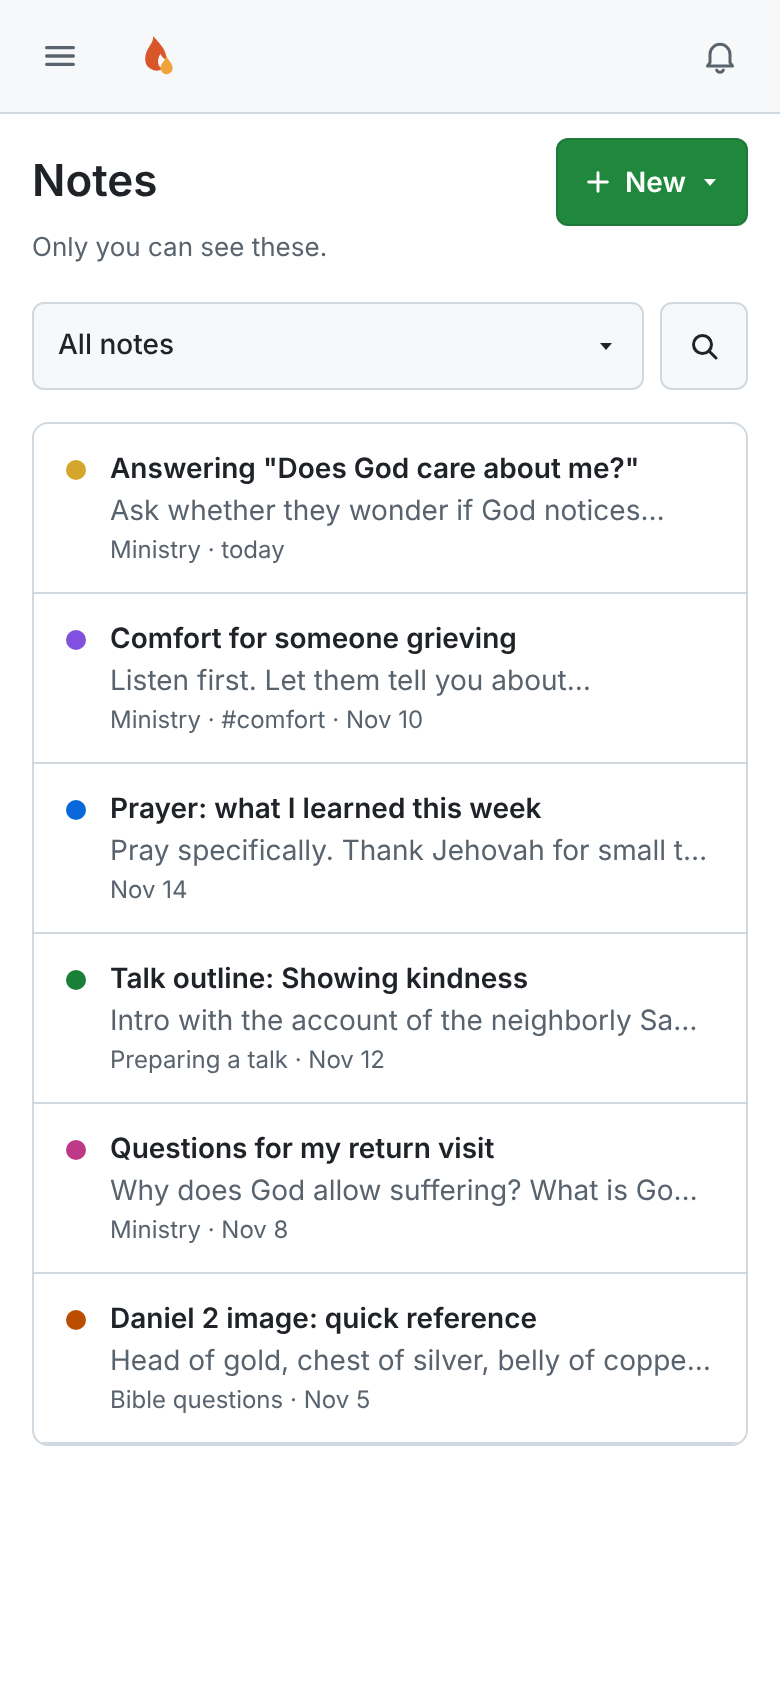
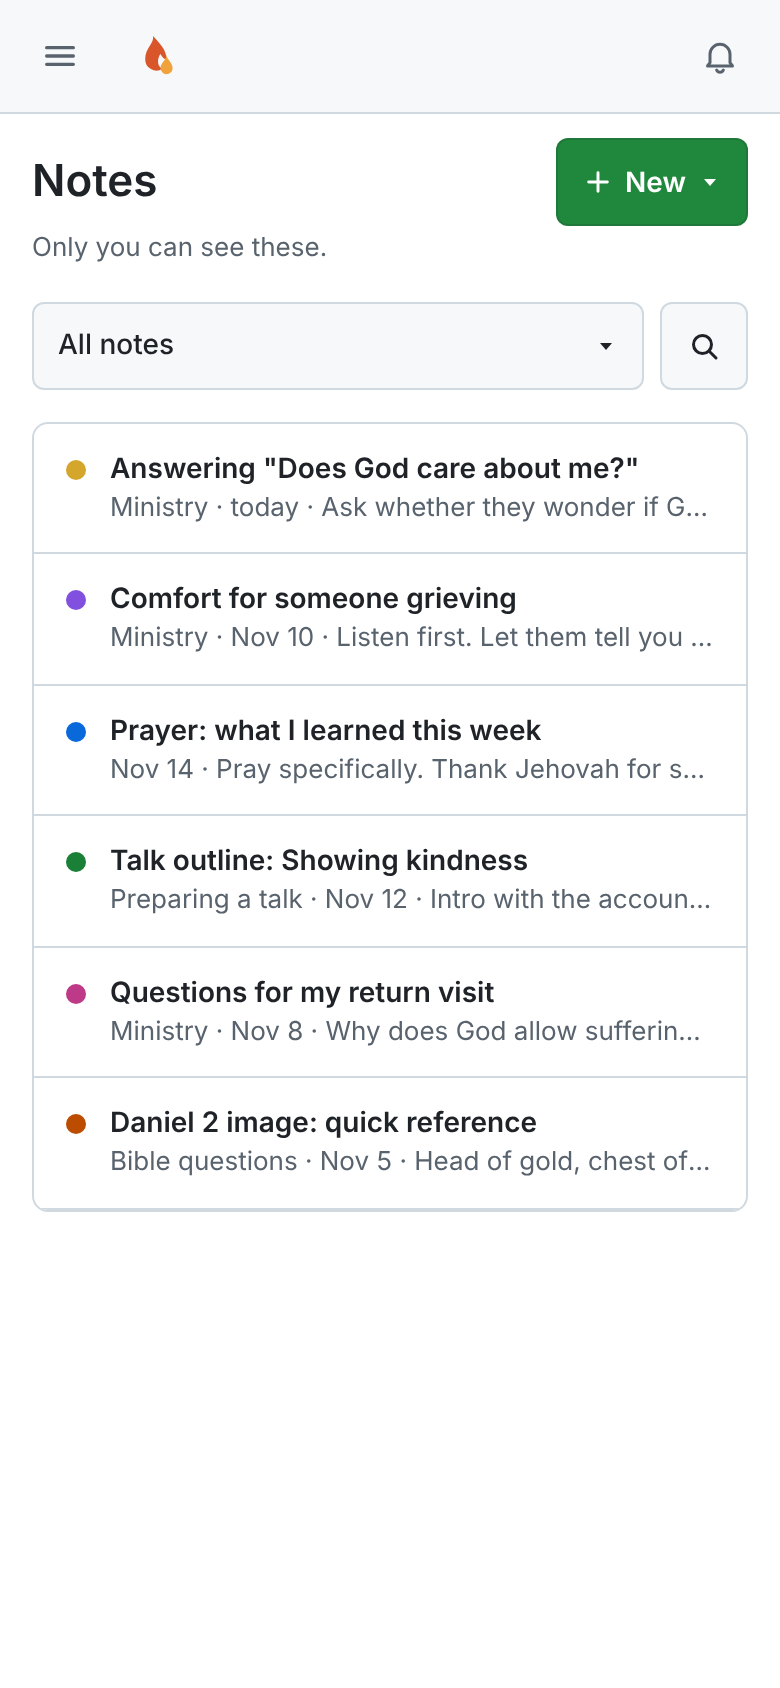
Phone design: read-only goals, the step panel by policy, two-line note rows
Claude-Session: https://claude.ai/code/session_0134z7YhxhHiNN5ED15LNroy

diff --git a/docs/design/phone.md b/docs/design/phone.md
@@ -45,15 +45,16 @@ Frames are in `docs/design/phone/` (README there), from the "Tidier phone pages 
   - An `h2` "Steps", then a bordered list.
   - Each row has the tick box, the step's title (struck through when done), and one muted line: "Done Nov 18" or "Due Dec 18". On a family goal the line starts with who it's for ("Eli and Sofia · Eli done, waiting on Sofia").
   - Each row ends with "›", and tapping the row opens the step panel.
-  - The tick box stays in the row, so ticking needs no panel. On a step for named people, the row's box is for the person viewing when they're one of them. Otherwise it opens the panel.
+  - The tick box stays in the row, so ticking needs no panel, but only for someone who may tick it (`docs/design/goals.md`, Who can do what). On an "Everyone" step, heads and adults see it. On a step for named people, the box is the viewer's own part when they're named; anyone else ticks from the panel, so the row has no box for them.
+- **A read-only goal** is a completed or archived goal, or a personal goal shared with the household and read by someone other than its owner. It has no tick boxes and no "+ Add step" (as in `docs/design/goals.md`). Its rows still open the panel, which then shows only the step's facts and who's done it, as text.
 - **"+ Add step"** is the list's last row for those who can edit. It opens the add-step form in place (New step, For on a family goal, Due), with "Add step" and "Cancel".
 - **The step panel** (frame `phone-family-goal-step.png`) is a Primer `Dialog` with `position_narrow: :bottom`:
   - the step's title as its heading, and "For <names> · Due <date>"
-  - "Who's done it", with a tick box per assignee, for a step for named people
+  - "Who's done it", for a step for named people: a tick box for each assignee the viewer may tick (heads and adults: everyone named; a child: only their own part). The other assignees are listed as text ("Sofia · not done yet")
   - "Schedule as a family study" (family goals, heads and adults)
-  - "Edit step" and "Remove step"
+  - "Edit step" and "Remove step" (family goals: heads and adults; personal goals: the owner)
 
-  A personal goal's panel has the title, due date, Edit step and Remove step. Edit step swaps the panel's body for the step's form.
+  The panel offers only what the viewer's policy allows, so a child's panel has at most their own tick box. A personal goal's panel has the title, due date, Edit step and Remove step. Edit step swaps the panel's body for the step's form.
 
 ### Members (frames `phone-members.png`, `phone-members-menu.png`)
 
@@ -71,7 +72,7 @@ On a phone only:
   - The title row has "+ New ▾" with Note and Collection. Collection opens the existing "New collection" dialog, which leaves the "All notes ▾" menu on a phone.
   - "Only you can see these." sits under the title.
   - One row under it holds "All notes ▾" (the collection and tag picker, as today) and a search `IconButton` that opens the search field.
-  - Each note is a row: its color dot, the title, a one-line preview and one muted line (collection · tags · date).
+  - Each note is a two-line row (rule 6): its color dot and title, then one muted line "<collection> · <date> · <preview>", cut with an ellipsis. Tags aren't shown in rows on a phone; "All notes ▾" filters by tag.
 - **A note:**
   - The back row is "‹ Notes" (or the collection) with the note's "…": Edit note, Pin to Home or Unpin from Home, Move to collection…, then a divider and Delete note….
   - The Edit button and the Pinned toggle leave the header on a phone.
